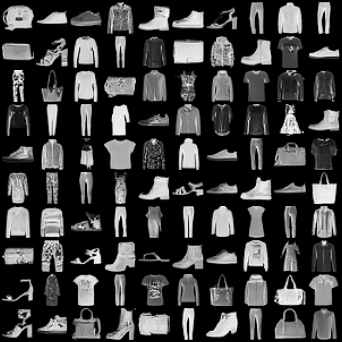
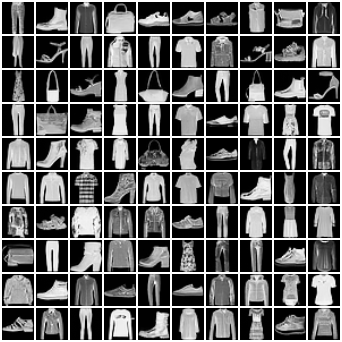
complete for unconditional-generation

diff --git a/src/data/diffusion_datamodule.py b/src/data/diffusion_datamodule.py
@@ -4,7 +4,7 @@ import torch
 import pyrootutils
 from torch import Tensor
 import pytorch_lightning as pl
-from torch.utils.data import DataLoader, Dataset, random_split
+from torch.utils.data import DataLoader, Dataset, Subset, random_split
 from albumentations import Compose
 
 pyrootutils.setup_root(__file__, indicator=".project-root", pythonpath=True)
@@ -148,6 +148,11 @@ class DiffusionDataModule(pl.LightningDataModule):
                 dataset = init_dataset(self.hparams.dataset_name,
                                        data_dir=self.hparams.data_dir)
 
+                # for testing code before training
+                len_dataset = sum(self.hparams.train_val_test_split)
+                if 1 < len_dataset and len_dataset < len(dataset):
+                    dataset = Subset(dataset, list(range(len_dataset)))
+
                 train_set, val_set, test_set = random_split(
                     dataset=dataset,
                     lengths=self.hparams.train_val_test_split,
@@ -205,7 +210,7 @@ class DiffusionDataModule(pl.LightningDataModule):
 
 
 if __name__ == "__main__":
-    import hydra
+    import hydra    
     from omegaconf import DictConfig
 
     root = pyrootutils.find_root(search_from=__file__,

diff --git a/src/models/components/attentions/attention.py b/src/models/components/attentions/attention.py
@@ -2,7 +2,7 @@ import torch
 import torch.nn as nn
 import torch.nn.functional as F
 
-
+#Follow https://github.com/w86763777/pytorch-ddpm/blob/master/model.py
 class AttentionBlock(nn.Module):
     """
     ## Attention block

diff --git a/README.md b/README.md
@@ -8,8 +8,11 @@ Diffusion model is a type of generative model. Its approach is different from GA
 * Latent diffusion: Image space to latent space with VAE
 * Stable diffusion: Latent + Condition Diffusion
 * Classifier-free guidance
+* Sketch2Image: using condition as sketch image
+* Medical Image Segmentation: using condition as medical image
 
 ## **2. Set Up**
+
   ### **Clone the repository**
     https://github.com/huynhspm/Generative-Model
     
@@ -19,87 +22,128 @@ Diffusion model is a type of generative model. Its approach is different from GA
     conda activate diffusion 
     pip install -r requirements.txt
 
-  ### **Training Diffusion**
-  set-up CUDA_VISIBLE_DEVICES and WANDB_API_KEY before training
-  
-    export CUDA_VISIBLE_DEVICES=0,1
-    export WANDB_API_KEY=???
-    python src/train.py experiment=diffusion_mnist trainer.devices=2
-  ### **Training VAE**
+  ### **Training**
   set-up CUDA_VISIBLE_DEVICES and WANDB_API_KEY before training
   
     export CUDA_VISIBLE_DEVICES=0
     export WANDB_API_KEY=???
-    python src/train.py experiment=vq_vae_celeba trainer.devices=1
+
+  choose from available experiments in folder "configs/experiment" or create your experiment to suit your task.
+    
+    # for generation task
+    python src/train.py experiment=generation/diffusion/train/mnist trainer.devices=1
+
+    # for reconstruction task
+    python src/train.py experiment=reconstruction/vq_vae/celeba trainer.devices=1
+  
+    # for segmentation task
+    python src/train.py experiment=segmentation/condition_diffusion/train/lidc trainer.devices=1
+
+  ### **Evaluation**
+  set-up CUDA_VISIBLE_DEVICES and WANDB_API_KEY before evaluating
+  
+    export CUDA_VISIBLE_DEVICES=0
+    export WANDB_API_KEY=???
+  
+  choose from available experiments in folder "configs/experiment" or create your experiment to suit your task.
+    
+    # for generation task
+    python src/eval.py experiment=generation/diffusion/eval/mnist trainer.devices=1
+
+    # for reconstruction task
+    ...
+
+    # for segmentation task
+    python src/eval.py experiment=segmentation/condition_diffusion/eval/lidc trainer.devices=1
+  
   ### **Inference**
-    Inference: 
+    ...
     
 ## **3. Diffusion Model**
+
 ### **3.1. Dataset**
-  - MNIST DATASET
-  - FASHION-MNIST DATASET
-  - CIFAR10 DATASET
-  - [GENDER DATASET](https://www.kaggle.com/datasets/yasserhessein/gender-dataset)
-  - [CELEBA DATASET](https://www.kaggle.com/datasets/badasstechie/celebahq-resized-256x256)
-  - [AFHQ DATASET](https://www.kaggle.com/datasets/andrewmvd/animal-faces) 
-  - [FFHQ DATASET](https://www.kaggle.com/datasets/greatgamedota/ffhq-face-data-set)
+
+  - **Generation task**:
+    - MNIST, FASHION-MNIST: 28x28 pixels
+    - CIFAR10: 32x32 pixels
+    - [GENDER](https://www.kaggle.com/datasets/yasserhessein/gender-dataset): 64x64 pixels
+    - [CELEBA](https://www.kaggle.com/datasets/badasstechie/celebahq-resized-256x256): 256x256 pixels 
+    - [AFHQ](https://www.kaggle.com/datasets/andrewmvd/animal-faces), [FFHQ](https://www.kaggle.com/datasets/greatgamedota/ffhq-face-data-set): 512x512 pixels
+  
+  - **Segmentation task**:
+    - [LIDC-IDRI](https://wiki.cancerimagingarchive.net/pages/viewpage.action?pageId=1966254)
+    - [CVC-CLINIC](https://www.kaggle.com/datasets/balraj98/cvcclinicdb)
+    - [ISIC](https://challenge.isic-archive.com/data/)
+  
 ### **3.2. Attention**
   - Self Attention
   - Cross Attention
   - Spatial Transformer
+  
 ### **3.3. Backbone**
   - ResNet Block
   - VGG Block
   - DenseNet Block
   - Inception Block
+
 ### **3.4 Embedder**
-  - Label
   - Time
-  - Image
+  - Label: animal (dog, cat), number (0,1,...9), gender (male, female)
+  - Image: Sketch2Image, Segmentation
   - Text: not implemented
+
 ### **3.5. Sampler**
   - DDPM: Denoising Diffusion Probabilistic Models
   - DDIM: Denoising Diffusion Implicit Models
+
 ### **3.6. Model**
-  - Unet
-  - Unconditional diffusion model
+  - Unet: Encoder, Decoder
+  - Unconditional Diffusion Model
   - Conditional diffusion model (label, image, text - need to implement text embedder model)
   - Variational autoencoder: Vanilla (only work for reconstruction), VQ
   - Latent diffusion model
+  - Stable diffusion model
   - Classifier-free; not work
+
 ## **4. RESULTS**
+
 ### **4.1. Unconditional Diffusion**
-#### **MINST and FASHION-MNIST (32x32)**
-![Mnist Generation](results/udm/mnist.png)
-![Fashion Generation](results/udm/fashion.jpg)
-#### **CIFAR10 (32x32)**
-![Cifar10 Generation](results/udm/cifar10.jpg)    
+
+| Dataset  | Image-Size | FID (features=2048, ddim -> ddpm) | Config |
+| :---: | :---: | :---: | :---:|
+| Mnist |  32x32  | 2.65 -> 0.89 | [Train](configs/experiment/generation/diffusion/train/mnist.yaml), [Eval](configs/experiment/generation/diffusion/eval/mnist.yaml)|
+| Fashion-Mnist | 32x32 | 3.31 -> 2.42 | [Train](configs/experiment/generation/diffusion/train/fashion.yaml), [Eval](configs/experiment/generation/diffusion/eval/fashion.yaml)|
+| Cifar10 | 32x32 | 5.54 -> 3.58 | [Train](configs/experiment/generation/diffusion/train/cifar10.yaml), [Eval](configs/experiment/generation/diffusion/eval/cifar10.yaml) |
+
+![Mnist Generation](results/udm/mnist.jpg) ![Fashion Generation](results/udm/fashion.jpg) ![Cifar10 Generation](results/udm/cifar10.jpg)    
+
 ### **4.2. Conditional Diffusion**
-#### **MINST and FASHION-MNIST (32x32)**
-![Mnist Generation](results/cdm/mnist.jpg)
-![Fashion Generation](results/cdm/fashion.jpg)
-#### **CIFAR10 (32x32)**
-![Cifar10 Generation](results/cdm/cifar10.jpg)
-#### **GENDER (64x64)**: 
-- Male and Female
 
-![Male Generation](results/cdm/gender/male.jpg)
-![Male Generation](results/cdm/gender/male.gif)
-![Female Generation](results/cdm/gender/female.jpg)
-![Female Generation](results/cdm/gender/female.gif)
+| Dataset  | Image-Size | FID (features=2048) | Config |
+| :---: | :---: | :---: | :---:|
+| Mnist |  32x32  | 3.86 | [Train](configs/experiment/generation/condition_diffusion/train/mnist.yaml), [Eval](configs/experiment/generation/condition_diffusion/eval/mnist.yaml)|
+| Fashion-Mnist | 32x32 | 3. | [Train](configs/experiment/generation/condition_diffusion/train/fashion.yaml), [Eval](configs/experiment/generation/condition_diffusion/eval/fashion.yaml)|
+| Cifar10 | 32x32 | 3. | [Train](configs/experiment/generation/condition_diffusion/train/cifar10.yaml), [Eval](configs/experiment/generation/condition_diffusion/eval/cifar10.yaml) |
+| Gender | 64x64 | 3. | [Train](configs/experiment/generation/condition_diffusion/train), [Eval](configs/experiment/generation/condition_diffusion/eval/) |
+| CelebA | 64x64 | 3. | [Train](configs/experiment/generation/condition_diffusion/train/), [Eval](configs/experiment/generation/condition_diffusion/eval/) |
+  
+![Mnist Generation](results/cdm/mnist.jpg) ![Fashion Generation](results/cdm/fashion.jpg)![Cifar10 Generation](results/cdm/cifar10.jpg)
+
+![Male Generation](results/cdm/gender/male.gif) ![Female Generation](results/cdm/gender/female.gif)
 
 
-#### **CELEBA (64x64)**
 - Sketch2Image (Sketch, Fake, Real)
   
-![AFHQ Sketch](results/cdm/celeba/sketch.png)
-![AFHQ Fake](results/cdm/celeba/fake.png)
-![AFHQ Real](results/cdm/celeba/real.png)
+![AFHQ Sketch](results/cdm/celeba/sketch.png) ![AFHQ Fake](results/cdm/celeba/fake.png) ![AFHQ Real](results/cdm/celeba/real.png)
+
 ### **4.3 DDPM and DDIM**
+
 #### **DDPM (64x64)**
 ![DDPM Generation](results/udm/gender/ddpm.jpg)
+
 #### **DDIM (64x64)**
 ![DDIM Generation](results/udm/gender/ddim.jpg)
+
 ### **4.4 DIFFUSION INTERPOLATION (64x64)**
 ![Interpolation Generation](results/udm/gender/interpolation.jpg)
 ### **4.5 VAE RECONSTRUCTION**
